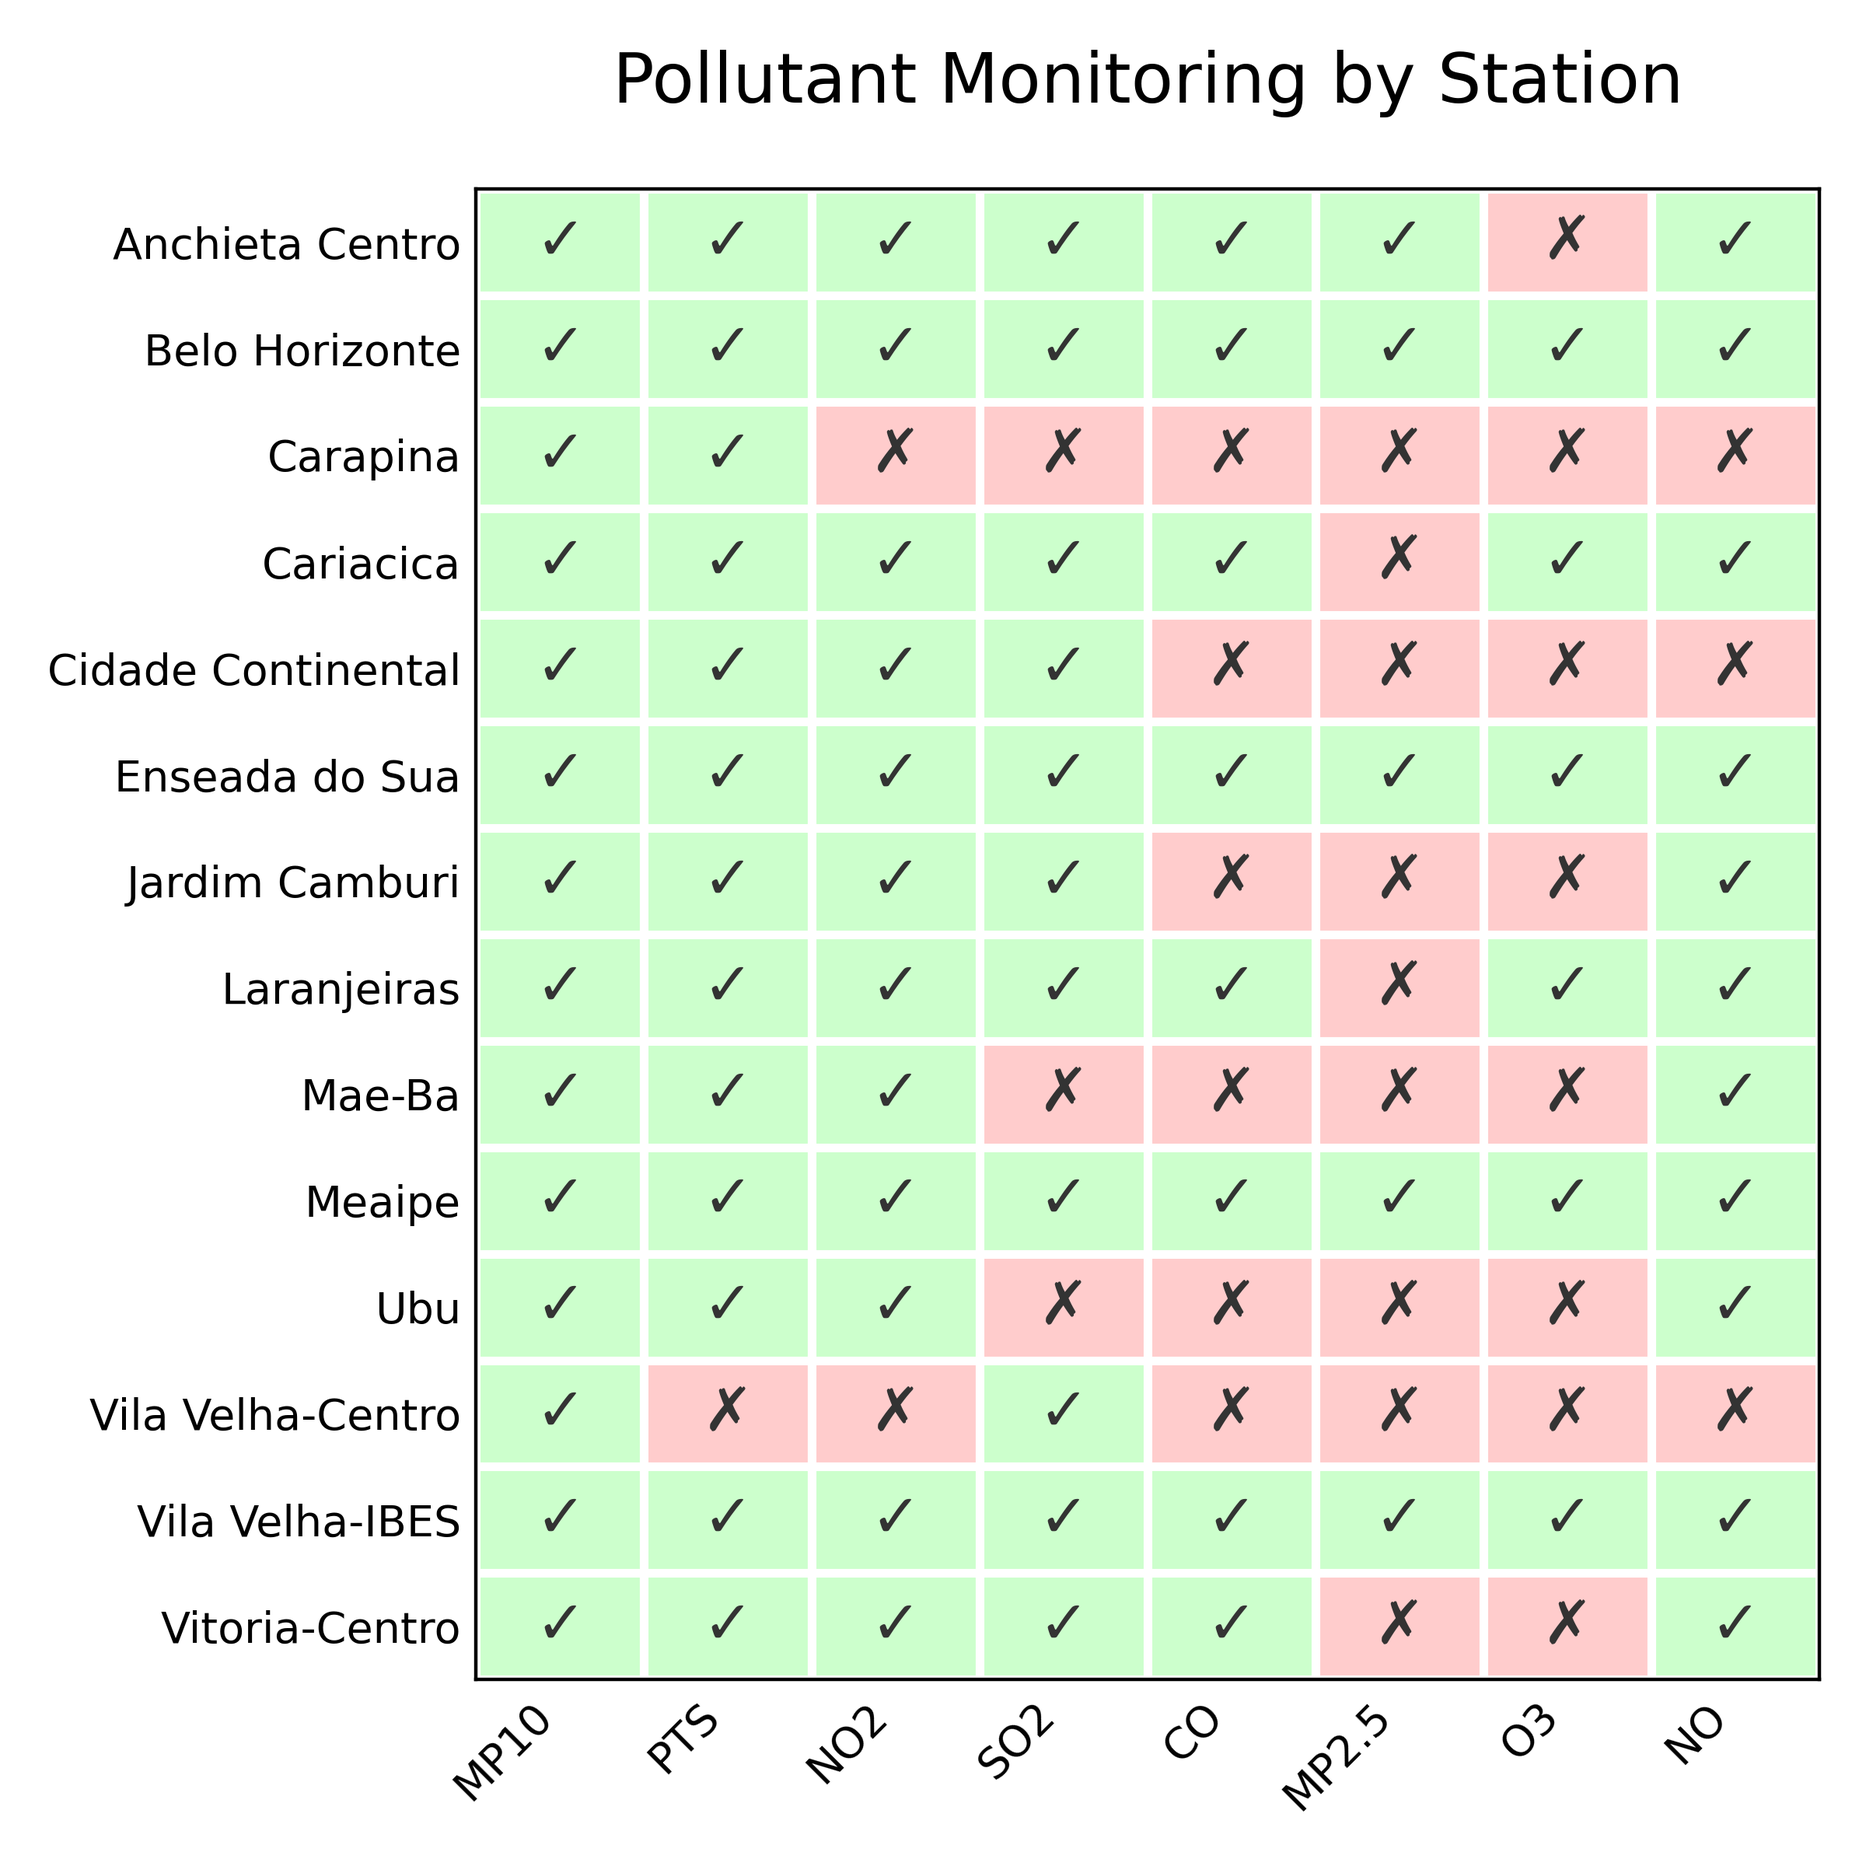
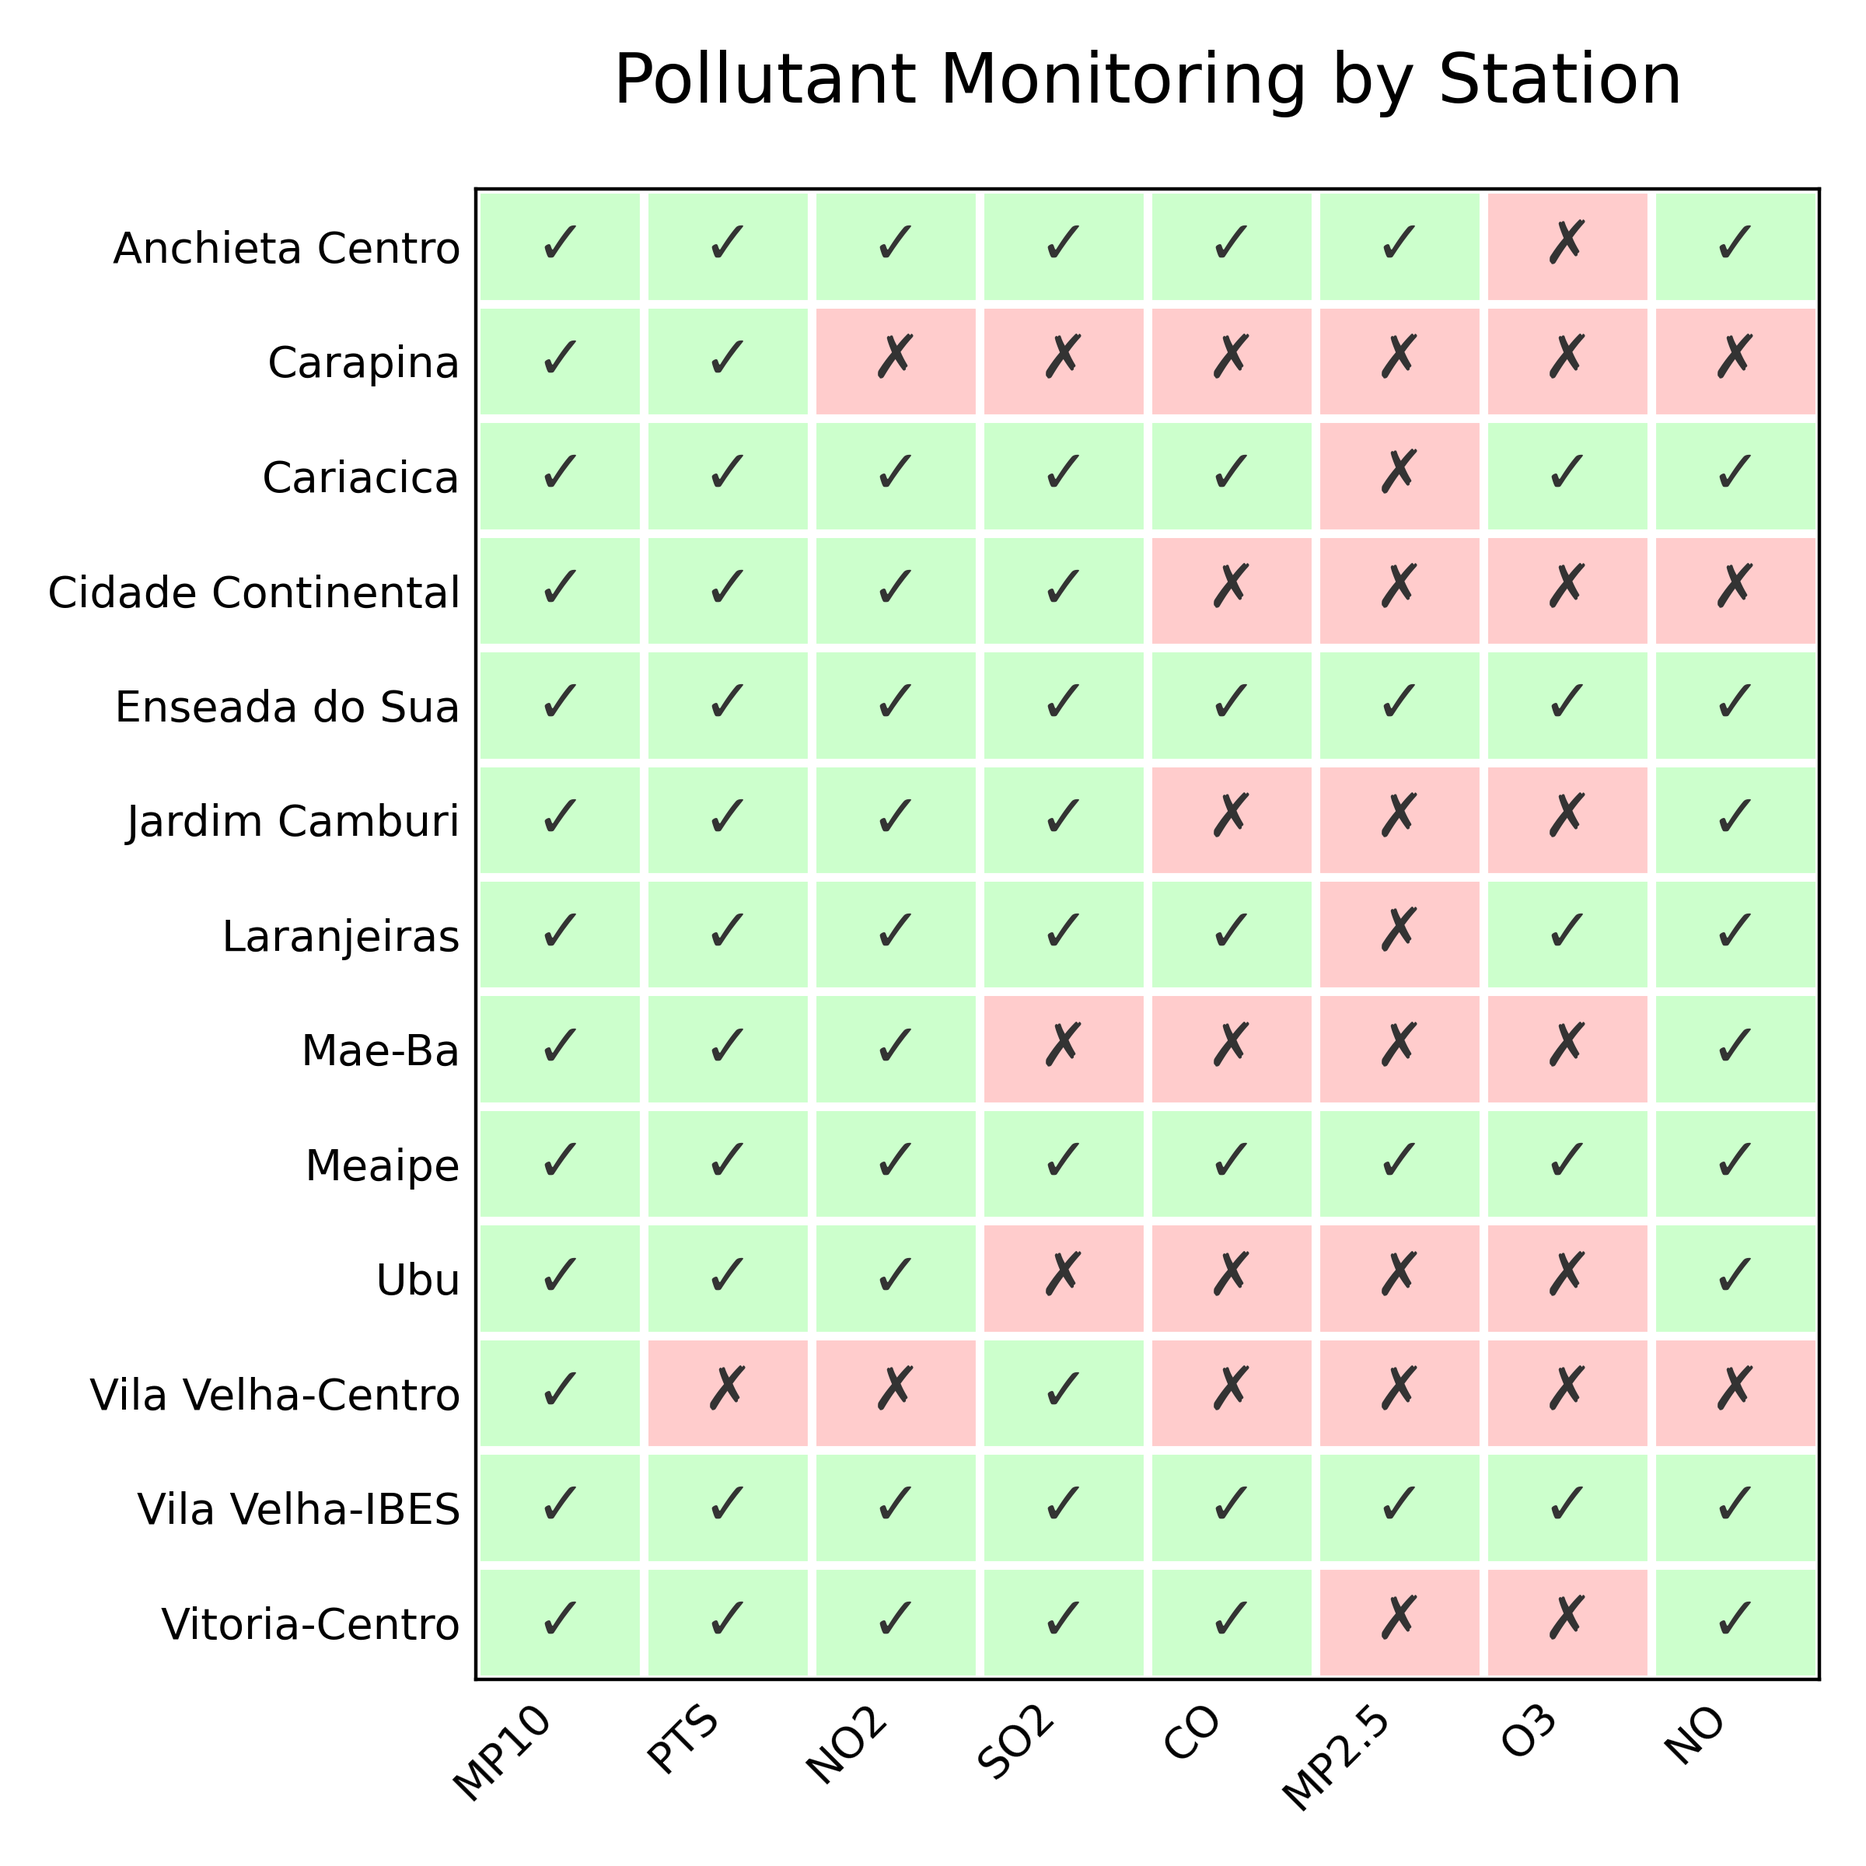
baselines result

Changed region(s): [[0.0312, 0.1562, 1.0, 0.875], [0.0625, 0.125, 0.25, 0.1562]]

diff --git a/baselines/linear_regression.py b/baselines/linear_regression.py
@@ -4,8 +4,8 @@ from matplotlib import pyplot as plt
 from sklearn.linear_model import LinearRegression
 import matplotlib.dates as mdates
 
-stations = [#'Anchieta Centro',
-            'Belo Horizonte',
+stations = ['Anchieta Centro',
+            #'Belo Horizonte',
             'Carapina',
             'Cariacica',
             'Cidade Continental',
@@ -19,6 +19,11 @@ stations = [#'Anchieta Centro',
             'Vila Velha-IBES',
             'Vitoria-Centro']
 
+train_MAE = []
+train_MSE = []
+test_MAE = []
+test_MSE = []
+
 for station in stations:
     train_features = np.load(f'../data/npy_datasets/{station}_train_features.npy')
     train_target = np.load(f'../data/npy_datasets/{station}_train_target.npy')
@@ -27,10 +32,12 @@ for station in stations:
     train_prediction = reg.predict(train_features)
 
     train_mae = np.mean(abs(train_prediction - train_target))
-    train_mse = np.mean(np.sqrt((train_prediction - train_target) ** 2))
+    train_mse = np.sqrt((np.mean((train_prediction - train_target) ** 2)))
 
     print(f'Train MAE: {train_mae}')
     print(f'Train MSE: {train_mse}')
+    train_MAE.append(train_mae)
+    train_MSE.append(train_mse)
 
     test_features = np.load(f'../data/npy_datasets/{station}_test_features.npy')
     test_target = np.load(f'../data/npy_datasets/{station}_test_target.npy')
@@ -38,25 +45,38 @@ for station in stations:
     test_prediction = reg.predict(test_features)
 
     test_mae = np.mean(abs(test_prediction - test_target))
-    test_mse = np.mean(np.sqrt((test_prediction - test_target) ** 2))
+    test_mse = np.sqrt((np.mean((test_prediction - test_target) ** 2)))
 
     print(f'Train MAE: {test_mae}')
     print(f'Train MSE: {test_mse}')
+    test_MAE.append(test_mae)
+    test_MSE.append(test_mse)
 
     test_target = np.ravel(test_target)
     test_prediction = np.ravel(test_prediction)
     target_dates = pd.to_datetime(np.load(f'../data/npy_datasets/{station}_test_target_dates.npy'))
 
-    plt.rcParams['figure.figsize'] = (10, 4)
+    plt.rcParams['figure.figsize'] = (7, 3)
     ax = plt.gca()  # Get current axis
     ax.xaxis.set_major_formatter(mdates.DateFormatter("%Y/%m/%d"))
-    plt.plot(target_dates[:50], test_target[:50], label='Target', c='r', linewidth=1)
-    plt.plot(target_dates[:50], test_prediction[:50], label='Prediction', c='green', linewidth=1,
+    plt.plot(target_dates[:500], test_target[:500], label='Target', c='r', linewidth=1)
+    plt.plot(target_dates[:500], test_prediction[:500], label='Prediction', c='green', linewidth=1,
              linestyle='--')
     plt.legend()
-    plt.xticks(rotation=30)
+    plt.xticks(rotation=15)
+    plt.ylabel('MP10, µg/m³')
     plt.title(f'Linear regression: {station}\nMAE={np.round(test_mae, 4)}, MSE={np.round(test_mse, 4)}')
     plt.tight_layout()
-    plt.show()
+    plt.savefig(f'results/linear_regression/{station}.png', dpi=100)
+    # plt.show()
+    plt.close()
 
+
+results_df = pd.DataFrame()
+results_df['station'] = stations
+results_df['train_MAE'] = train_MAE
+results_df['train_MSE'] = train_MSE
+results_df['test_MAE'] = test_MAE
+results_df['test_MSE'] = test_MSE
+results_df.to_csv('results/linear_regression/metrics.csv', index=False)
 

diff --git a/baselines/moving_average.py b/baselines/moving_average.py
@@ -3,8 +3,8 @@ import pandas as pd
 from matplotlib import pyplot as plt
 import matplotlib.dates as mdates
 
-stations = [#'Anchieta Centro',
-            'Belo Horizonte',
+stations = ['Anchieta Centro',
+            #'Belo Horizonte',
             'Carapina',
             'Cariacica',
             'Cidade Continental',
@@ -22,6 +22,12 @@ def moving_average_forecast(X):
     predictions = np.mean(X, axis=1)
     return predictions
 
+train_MAE = []
+train_MSE = []
+test_MAE = []
+test_MSE = []
+
+
 for station in stations:
     train_features = np.load(f'../data/npy_datasets/{station}_train_features.npy')
     train_target = np.load(f'../data/npy_datasets/{station}_train_target.npy')
@@ -30,10 +36,13 @@ for station in stations:
     train_prediction = moving_average_forecast(train_features)
 
     train_mae = np.mean(abs(train_prediction - train_target))
-    train_mse = np.mean(np.sqrt((train_prediction - train_target) ** 2))
+    train_mse = np.sqrt((np.mean((train_prediction - train_target) ** 2)))
 
     print(f'Train MAE: {train_mae}')
     print(f'Train MSE: {train_mse}')
+    train_MAE.append(train_mae)
+    train_MSE.append(train_mse)
+
 
     test_features = np.load(f'../data/npy_datasets/{station}_test_features.npy')
     test_target = np.load(f'../data/npy_datasets/{station}_test_target.npy')
@@ -41,23 +50,37 @@ for station in stations:
     test_prediction = moving_average_forecast(test_features)
 
     test_mae = np.mean(abs(test_prediction - test_target))
-    test_mse = np.mean(np.sqrt((test_prediction - test_target) ** 2))
+    test_mse = np.sqrt((np.mean((test_prediction - test_target) ** 2)))
 
     print(f'Test MAE: {test_mae}')
     print(f'Test MSE: {test_mse}')
+    test_MAE.append(test_mae)
+    test_MSE.append(test_mse)
 
     test_target = np.ravel(test_target)
     test_prediction = np.ravel(test_prediction)
     target_dates = pd.to_datetime(np.load(f'../data/npy_datasets/{station}_test_target_dates.npy'))
 
-    plt.rcParams['figure.figsize'] = (10, 4)
+    plt.rcParams['figure.figsize'] = (7, 3)
     ax = plt.gca()  # Get current axis
     ax.xaxis.set_major_formatter(mdates.DateFormatter("%Y/%m/%d"))
     plt.plot(target_dates[:500], test_target[:500], label='Target', c='r', linewidth=1)
     plt.plot(target_dates[:500], test_prediction[:500], label='Prediction', c='green', linewidth=1,
              linestyle='--')
     plt.legend()
-    plt.xticks(rotation=30)
+    plt.xticks(rotation=15)
+    plt.ylabel('MP10, µg/m³')
     plt.title(f'Moving average: {station}\nMAE={np.round(test_mae, 4)}, MSE={np.round(test_mse, 4)}')
     plt.tight_layout()
-    plt.show()
+    plt.savefig(f'results/moving_average/{station}.png', dpi=100)
+    #plt.show()
+    plt.close()
+
+
+results_df = pd.DataFrame()
+results_df['station'] = stations
+results_df['train_MAE'] = train_MAE
+results_df['train_MSE'] = train_MSE
+results_df['test_MAE'] = test_MAE
+results_df['test_MSE'] = test_MSE
+results_df.to_csv('results/moving_average/metrics.csv', index=False)

diff --git a/baselines/naive_forecast.py b/baselines/naive_forecast.py
@@ -3,8 +3,8 @@ import pandas as pd
 from matplotlib import pyplot as plt
 import matplotlib.dates as mdates
 
-stations = [#'Anchieta Centro',
-            'Belo Horizonte',
+stations = ['Anchieta Centro',
+            #'Belo Horizonte',
             'Carapina',
             'Cariacica',
             'Cidade Continental',
@@ -22,6 +22,11 @@ def naive_forecast(X):
     predictions = X[:, -1:]
     return predictions
 
+train_MAE = []
+train_MSE = []
+test_MAE = []
+test_MSE = []
+
 for station in stations:
     train_features = np.load(f'../data/npy_datasets/{station}_train_features.npy')
     train_target = np.load(f'../data/npy_datasets/{station}_train_target.npy')
@@ -34,6 +39,8 @@ for station in stations:
 
     print(f'Train MAE: {train_mae}')
     print(f'Train MSE: {train_mse}')
+    train_MAE.append(train_mae)
+    train_MSE.append(train_mse)
 
     test_features = np.load(f'../data/npy_datasets/{station}_test_features.npy')
     test_target = np.load(f'../data/npy_datasets/{station}_test_target.npy')
@@ -43,21 +50,35 @@ for station in stations:
     test_mae = np.mean(abs(test_prediction - test_target))
     test_mse = np.mean(np.sqrt((test_prediction - test_target) ** 2))
 
-    print(f'Train MAE: {test_mae}')
-    print(f'Train MSE: {test_mse}')
+    print(f'Test MAE: {test_mae}')
+    print(f'Test MSE: {test_mse}')
+    test_MAE.append(test_mae)
+    test_MSE.append(test_mse)
 
     test_target = np.ravel(test_target)
     test_prediction = np.ravel(test_prediction)
     target_dates = pd.to_datetime(np.load(f'../data/npy_datasets/{station}_test_target_dates.npy'))
 
-    plt.rcParams['figure.figsize'] = (10, 4)
+    plt.rcParams['figure.figsize'] = (7, 3)
     ax = plt.gca()  # Get current axis
     ax.xaxis.set_major_formatter(mdates.DateFormatter("%Y/%m/%d"))
     plt.plot(target_dates[:500], test_target[:500], label='Target', c='r', linewidth=1)
     plt.plot(target_dates[:500], test_prediction[:500], label='Prediction', c='green', linewidth=1,
              linestyle='--')
     plt.legend()
-    plt.xticks(rotation=30)
+    plt.xticks(rotation=15)
+    plt.ylabel('MP10, µg/m³')
     plt.title(f'Naive forecast: {station}\nMAE={np.round(test_mae, 4)}, MSE={np.round(test_mse, 4)}')
     plt.tight_layout()
-    plt.show()
+    plt.savefig(f'results/naive_forecast/{station}.png', dpi=100)
+    # plt.show()
+    plt.close()
+
+
+results_df = pd.DataFrame()
+results_df['station'] = stations
+results_df['train_MAE'] = train_MAE
+results_df['train_MSE'] = train_MSE
+results_df['test_MAE'] = test_MAE
+results_df['test_MSE'] = test_MSE
+results_df.to_csv('results/naive_forecast/metrics.csv', index=False)

diff --git a/visualization/mp10_stations_visual.py b/visualization/mp10_stations_visual.py
@@ -5,7 +5,7 @@ from visualization.supp_functions import plot_risk_zones
 pollutants = ['MP10', 'PTS', 'NO2', 'SO2', 'CO', 'MP2.5', 'O3', 'NO']
 
 correct_stations = ['Anchieta Centro',
-                    'Belo Horizonte',
+                    #'Belo Horizonte',
                     'Carapina',
                     'Cariacica',
                     'Cidade Continental',
@@ -42,7 +42,7 @@ for station in correct_stations:
     plot = True
     if plot:
         # plot MP10 for each station
-        ax = plot_risk_zones('MP10', '24h')
+        '''ax = plot_risk_zones('MP10', '24h')
         plt.plot(station_dataset.index, station_dataset[f'24h_MP10'])
         plt.xticks(rotation=90)
         plt.title(f'MP10 (24h mean) - {station}')
@@ -50,6 +50,16 @@ for station in correct_stations:
         plt.ylim(0, 240)
         plt.tight_layout()
         plt.savefig(f'mp10_visualizations/MP10_{station}.png')
+        plt.show()'''
+
+        ax = plot_risk_zones('MP10', '24h')
+        plt.plot(station_dataset.index, station_dataset[f'Value'])
+        plt.xticks(rotation=90)
+        plt.title(f'MP10 - {station}')
+        plt.ylabel('ug/m3')
+        plt.ylim(0, 240)
+        plt.tight_layout()
+        plt.savefig(f'mp10_visualizations/raw_MP10_{station}.png')
         plt.show()
 
 print(stations_pollutants_dict)
@@ -85,7 +95,7 @@ def save_mp10_station_existance():
     # Add title and adjust layout
     plt.title('Pollutant Monitoring by Station', pad=20, fontsize=16)
     plt.tight_layout()
-    #plt.savefig('visualization/pollutant_per_station.png', dpi=400)
+    plt.savefig('pollutant_per_station.png', dpi=400)
     plt.show()
 
 
@@ -117,5 +127,9 @@ def save_test_dates():
             cell.set_text_props(weight='bold')
             cell.set_edgecolor('#999999')
     plt.tight_layout()
-    #plt.savefig('visualization/station_target_dates.png', dpi=400, bbox_inches='tight')
+    plt.savefig('station_target_dates.png', dpi=400, bbox_inches='tight')
     plt.show()
+
+
+#save_mp10_station_existance()
+#save_test_dates()

diff --git a/data_loader.py b/data_loader.py
@@ -5,7 +5,7 @@ import pandas as pd
 from matplotlib import pyplot as plt
 
 stations_names = ['Anchieta Centro',
-                    'Belo Horizonte',
+                    #'Belo Horizonte',
                     'Carapina',
                     'Cariacica',
                     'Cidade Continental',
@@ -39,16 +39,18 @@ def load_data(station, window_size=48):
     test_dataset = station_dataset[station_dataset['Date'].isin(target_dates)]
     train_dataset = station_dataset[~station_dataset['Date'].isin(target_dates)]
 
-    plt.rcParams['figure.figsize'] = (8, 3)
+    plt.rcParams['figure.figsize'] = (6, 2)
     plt.plot(train_dataset['Date'], train_dataset['24h_MP10'], label='Train')
     plt.plot(test_dataset['Date'], test_dataset['24h_MP10'], label='Test')
-    plt.title(f'Train/Test time series - {station}')
-    plt.legend()
+    #plt.title(f'Train/Test time series - {station}')
+    plt.title(f'{station}')
+    plt.legend(loc='upper left')
+    plt.ylabel('MP10, µg/m³')
     plt.tight_layout()
     plt.show()
 
     # FORM TRAIN DATASET
-    train_features = []
+    '''train_features = []
     train_target = []
     train_target_dates = []
     for date in train_dataset['Date'].tolist():
@@ -98,7 +100,9 @@ def load_data(station, window_size=48):
     test_target = np.array(test_target)
     np.save(f'data/npy_datasets/{station}_test_target.npy', test_target)
     test_target_dates = np.array(test_target_dates)
-    np.save(f'data/npy_datasets/{station}_test_target_dates.npy', test_target_dates)
+    np.save(f'data/npy_datasets/{station}_test_target_dates.npy', test_target_dates)'''
 
-#load_data('Anchieta Centro')
+
+for station in stations_names:
+    load_data(station)
 

diff --git a/metrics_load.py b/metrics_load.py
@@ -1,0 +1,17 @@
+import pandas as pd
+
+models = ['linear_regression', 'moving_average', 'naive_forecast']
+models_path = 'baselines/results'
+
+metric = 'MSE'
+final_table = pd.DataFrame()
+
+for model in models:
+    file_name = f'{models_path}/{model}/metrics.csv'
+    df = pd.read_csv(file_name)
+    final_table['station'] = df['station']
+    final_table[f'{model} train'] = df[f'train_{metric}']
+    final_table[f'{model} test'] = df[f'test_{metric}']
+
+final_table.to_csv(f'baselines_{metric}.csv', index=False)
+
